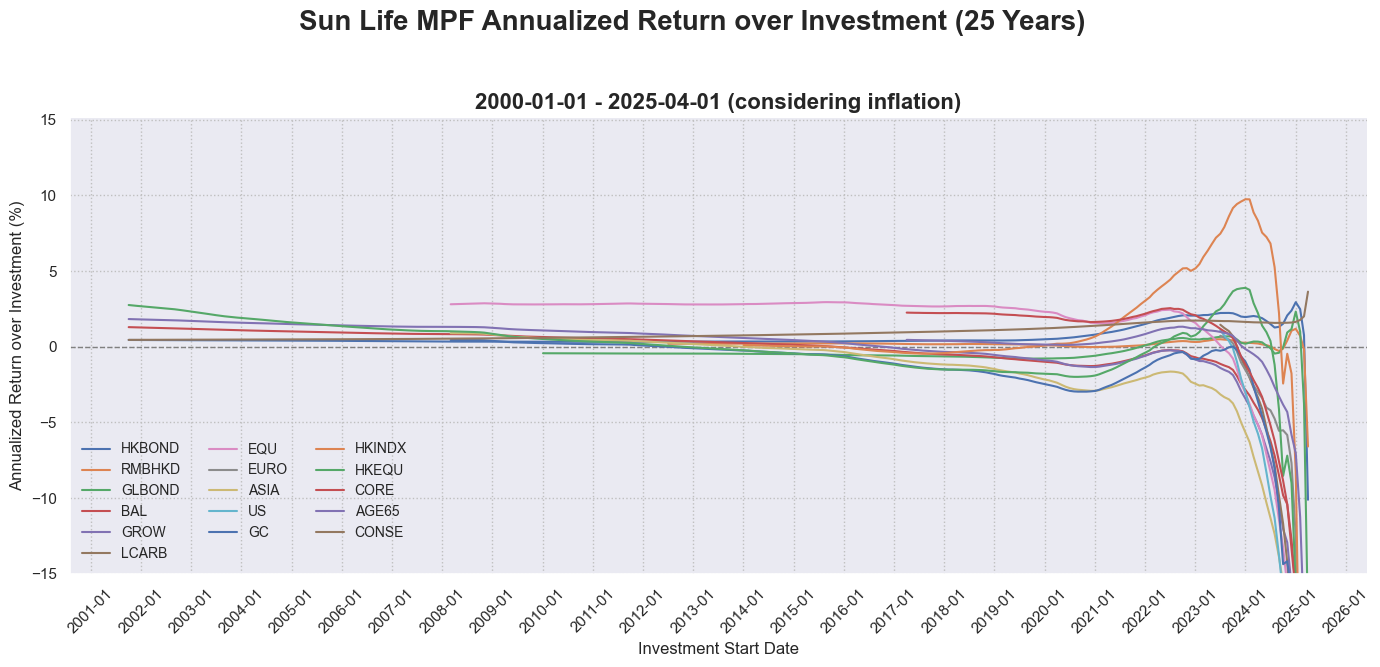
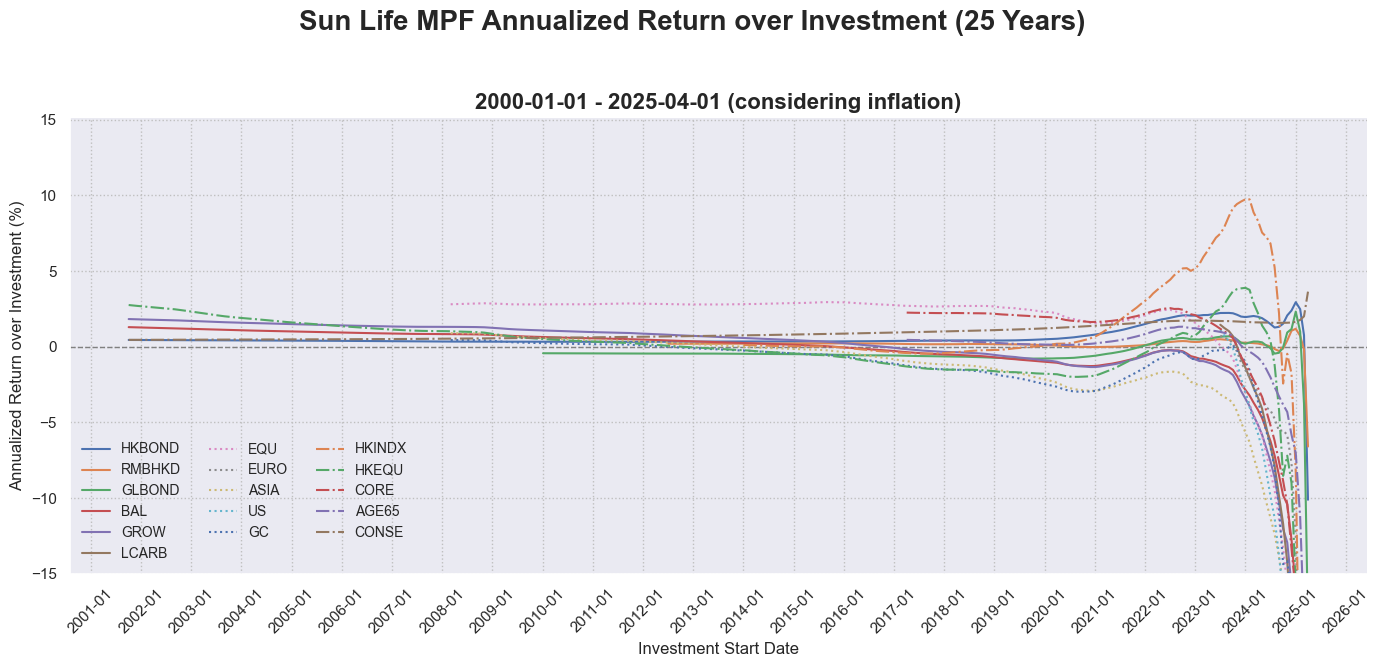
better distinguish between funds

diff --git a/simulator.py b/simulator.py
@@ -140,14 +140,14 @@ def visualize_per_year(resdf, withInflation):
             elif period_label <= 25:
                 ax.xaxis.set_major_locator(mdates.YearLocator(1))
             
-            for abbr in fund_abbrs:
+            for j, abbr in enumerate(fund_abbrs):
                 plot_df = resdf[(resdf['abbr'] == abbr) & (resdf['start_date'] >= start_date)].copy()
                 # if ky == 'annualized_roi':
                 #     plot_df = plot_df[plot_df['start_date'] <= annualized_end_date]
                 if plot_df.empty:
                     continue
                 plot_df[ky] = plot_df[ky] * 100
-                ax.plot(plot_df['start_date'], plot_df[ky], label=abbr, linewidth=1.5)
+                ax.plot(plot_df['start_date'], plot_df[ky], label=abbr, linewidth=1.5, linestyle=(j >= 11 and '-.' or (j >= 6 and ':' or '-')))
 
             plt.ylim(bottom=-15)
             ax.legend(loc=(ky == 'annualized_roi' and 'lower left' or 'upper right'), fontsize=10, frameon=False, ncols=3)
@@ -172,4 +172,4 @@ if __name__ == '__main__':
     # simulate_without_inflation()
     # simulate_with_inflation()
     visualize_per_year(read_result('simulate_without_inflation.csv'), False)
-    # visualize_per_year(read_result('simulate_with_inflation.csv'), True)
+    visualize_per_year(read_result('simulate_with_inflation.csv'), True)

diff --git a/visualizer.py b/visualizer.py
@@ -58,7 +58,7 @@ def per_year():
         elif 10 < period_label <= 25:
             ax.xaxis.set_major_locator(mdates.YearLocator(1))
 
-        for abbr in fund_abbrs:
+        for j, abbr in enumerate(fund_abbrs):
             plot_df = df[(df['abbr'] == abbr) & (df['date'] >= start_date)].copy()
 
             if plot_df.empty:
@@ -79,10 +79,10 @@ def per_year():
                 plot_df = plot_df[['price_change']].resample('10D').mean().interpolate(method='linear')
             
             plot_df = plot_df.reset_index()
-            ax.plot(plot_df['date'], plot_df['price_change'], label=abbr, linewidth=1.0)
+            ax.plot(plot_df['date'], plot_df['price_change'], label=abbr, linewidth=1.2, linestyle=(j >= 11 and '-.' or (j >= 6 and ':' or '-')))
         
         ax.legend(loc='upper left', fontsize=10, frameon=False, ncols=3)
-        ax.grid(True, linestyle=':', linewidth=1, color='#bfbfbf')
+        ax.grid(True, linestyle=':', linewidth=0.8, color='#bfbfbf')
         sns.despine()
 
         plt.tight_layout(rect=[0, 0.03, 1, 0.95])
@@ -176,5 +176,5 @@ def per_fund():
         plt.close(fig)
 
 if __name__ == '__main__':
-    # per_year()
-    per_fund()
+    per_year()
+    # per_fund()
